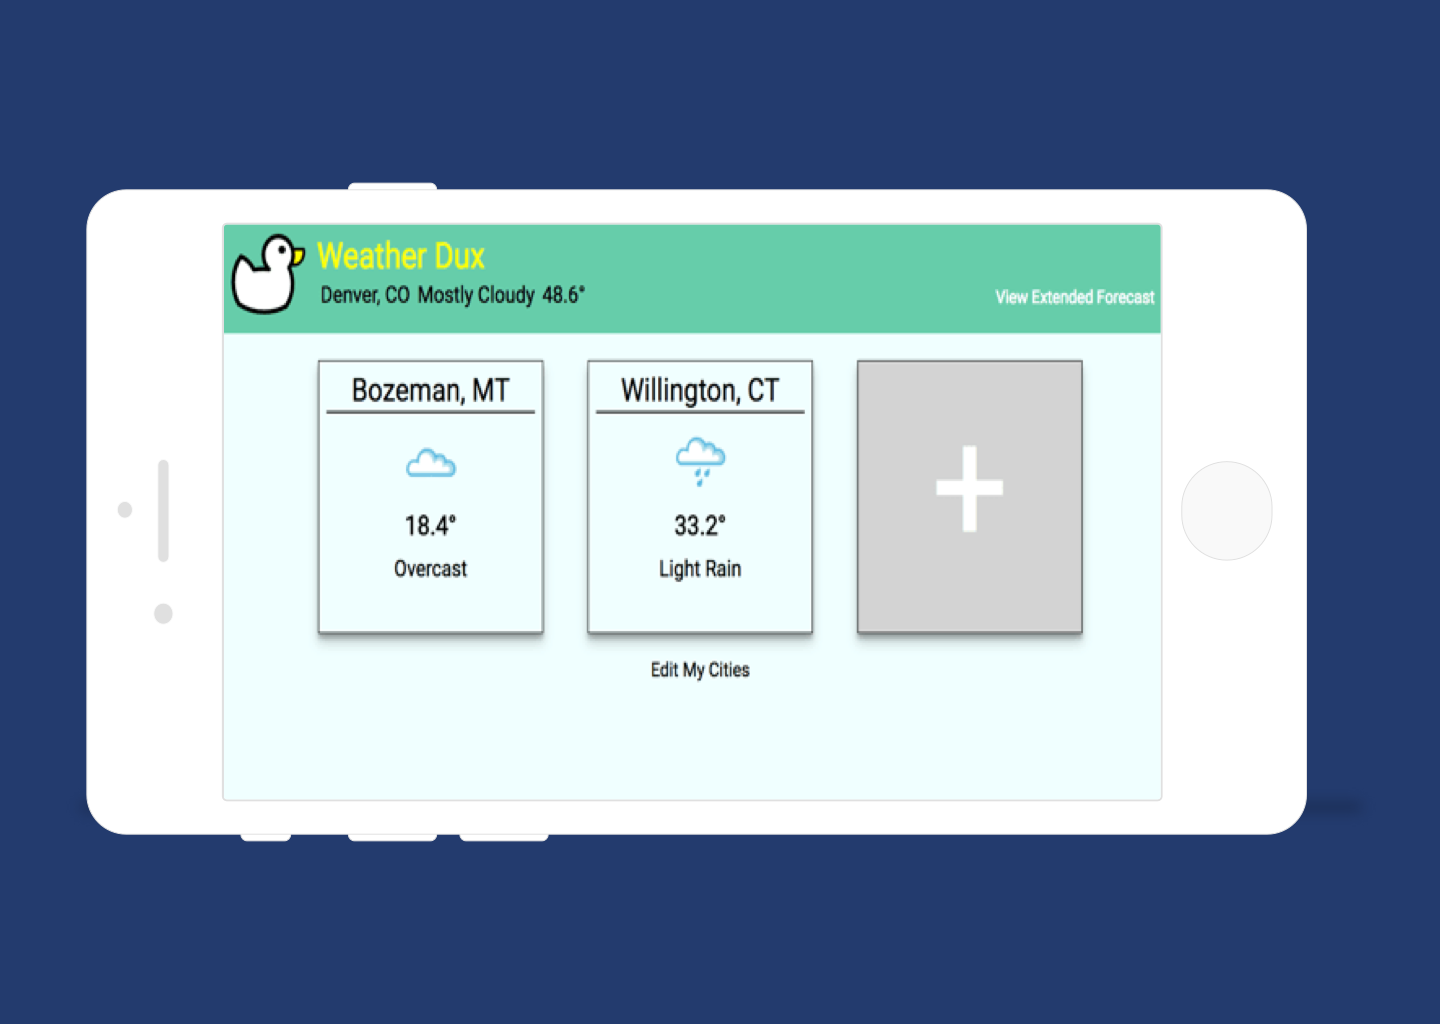
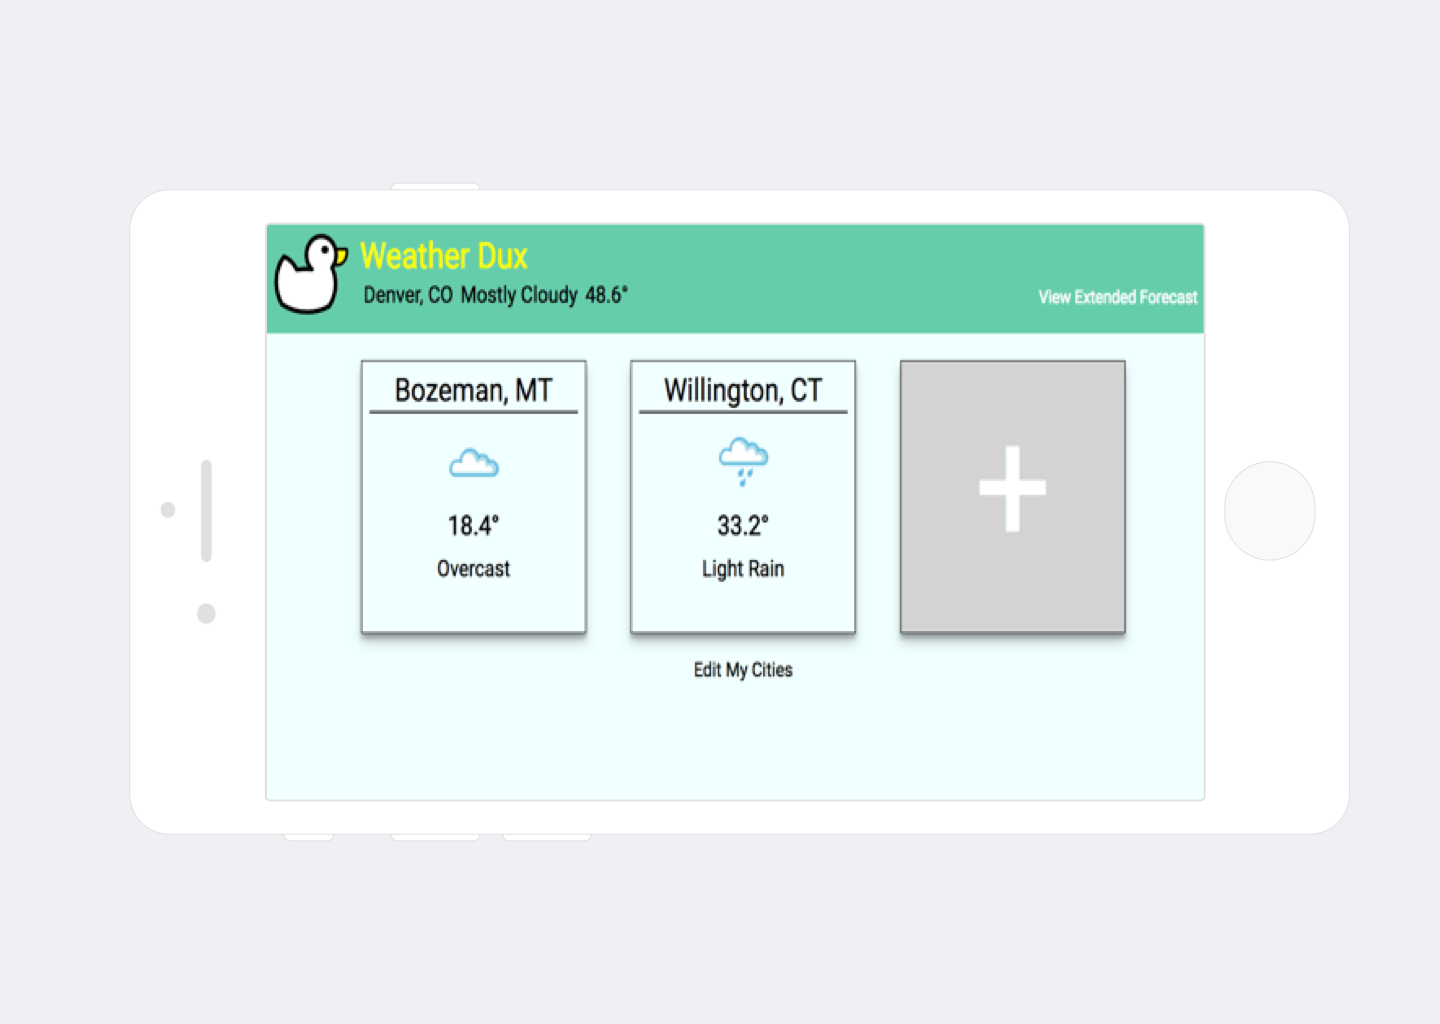
Change background color on weather dux

diff --git a/src/components/Projects/index.js b/src/components/Projects/index.js
@@ -15,26 +15,26 @@ export default class Projects extends Component {
     this.state = {
       projects: [
         {url: 'https://the-unreasonable-challenge.firebaseapp.com/',
-        src: './images/the-unreasonable-challenge.png',
-        title: 'The Unreasonable Challenge'},
-        {url: 'https://nimblenetwork-d13c3.firebaseapp.com/',
-        src: './images/nimble-network.png',
-        title: 'Nimble Network'},
+          src: './images/the-unreasonable-challenge.png',
+          title: 'The Unreasonable Challenge'},
+        {url: 'https://hilarylewis92.github.io/weather-forecast/#/?_k=myzv4x',
+          src: './images/weather-dux.png',
+          title: 'Weather Dux'},
         {url: 'https://github.com/hilarylewis92/number-guesser-react',
           src: './images/number-guesser-react.jpg',
           title: 'Number Guesser'},
-        {url: 'https://hilarylewis92.github.io/weather-forecast/#/?_k=myzv4x',
-        src: './images/weather-dux.png',
-        title: 'Weather Dux'},
+        {url: 'https://nimblenetwork-d13c3.firebaseapp.com/',
+          src: './images/nimble-network.png',
+          title: 'Nimble Network'},
         {url: 'https://shoot-the-breeze-1be68.firebaseapp.com/',
-        src: './images/shoot-the-breeze.png',
-        title: 'Shoot the Breeze'},
+          src: './images/shoot-the-breeze.png',
+          title: 'Shoot the Breeze'},
         {url: 'https://hilarylewis92.github.io/2DoBox-Pivot/',
-        src: './images/2-do-box.png',
-        title: '2 Do Box'},
+          src: './images/2-do-box.png',
+          title: '2 Do Box'},
         {url: 'https://hilarylewis92.github.io/gametime/',
-        src: './images/game-time.png',
-        title: 'Pumpkin Smasher'},
+          src: './images/game-time.png',
+          title: 'Pumpkin Smasher'},
       ]
     }
   }

diff --git a/src/components/App/style.css b/src/components/App/style.css
@@ -16,9 +16,9 @@
 }
 
 .name {
-  font-size: 70px;
+  font-size: 100px;
   font-weight: bold;
-  margin-bottom: 10px;
+  margin-bottom: 15px;
   background-color: hsla(0, 0%, 100%, 0);
 
 }
@@ -26,7 +26,7 @@
 .hero-text-landing {
   line-height: 120%;
   color: black;
-  font-size: 60px;
+  font-size: 70px;
   position: absolute;
   bottom: 0;
   width: 60%;

diff --git a/src/components/App/Home.js b/src/components/App/Home.js
@@ -33,7 +33,7 @@ export default class Home extends Component {
 
   gsapHeroAnimation() {
     TweenMax.to('.hero-text-landing', 1.5,
-    {top: 170}
+    {top: 220}
     )
   }
 
